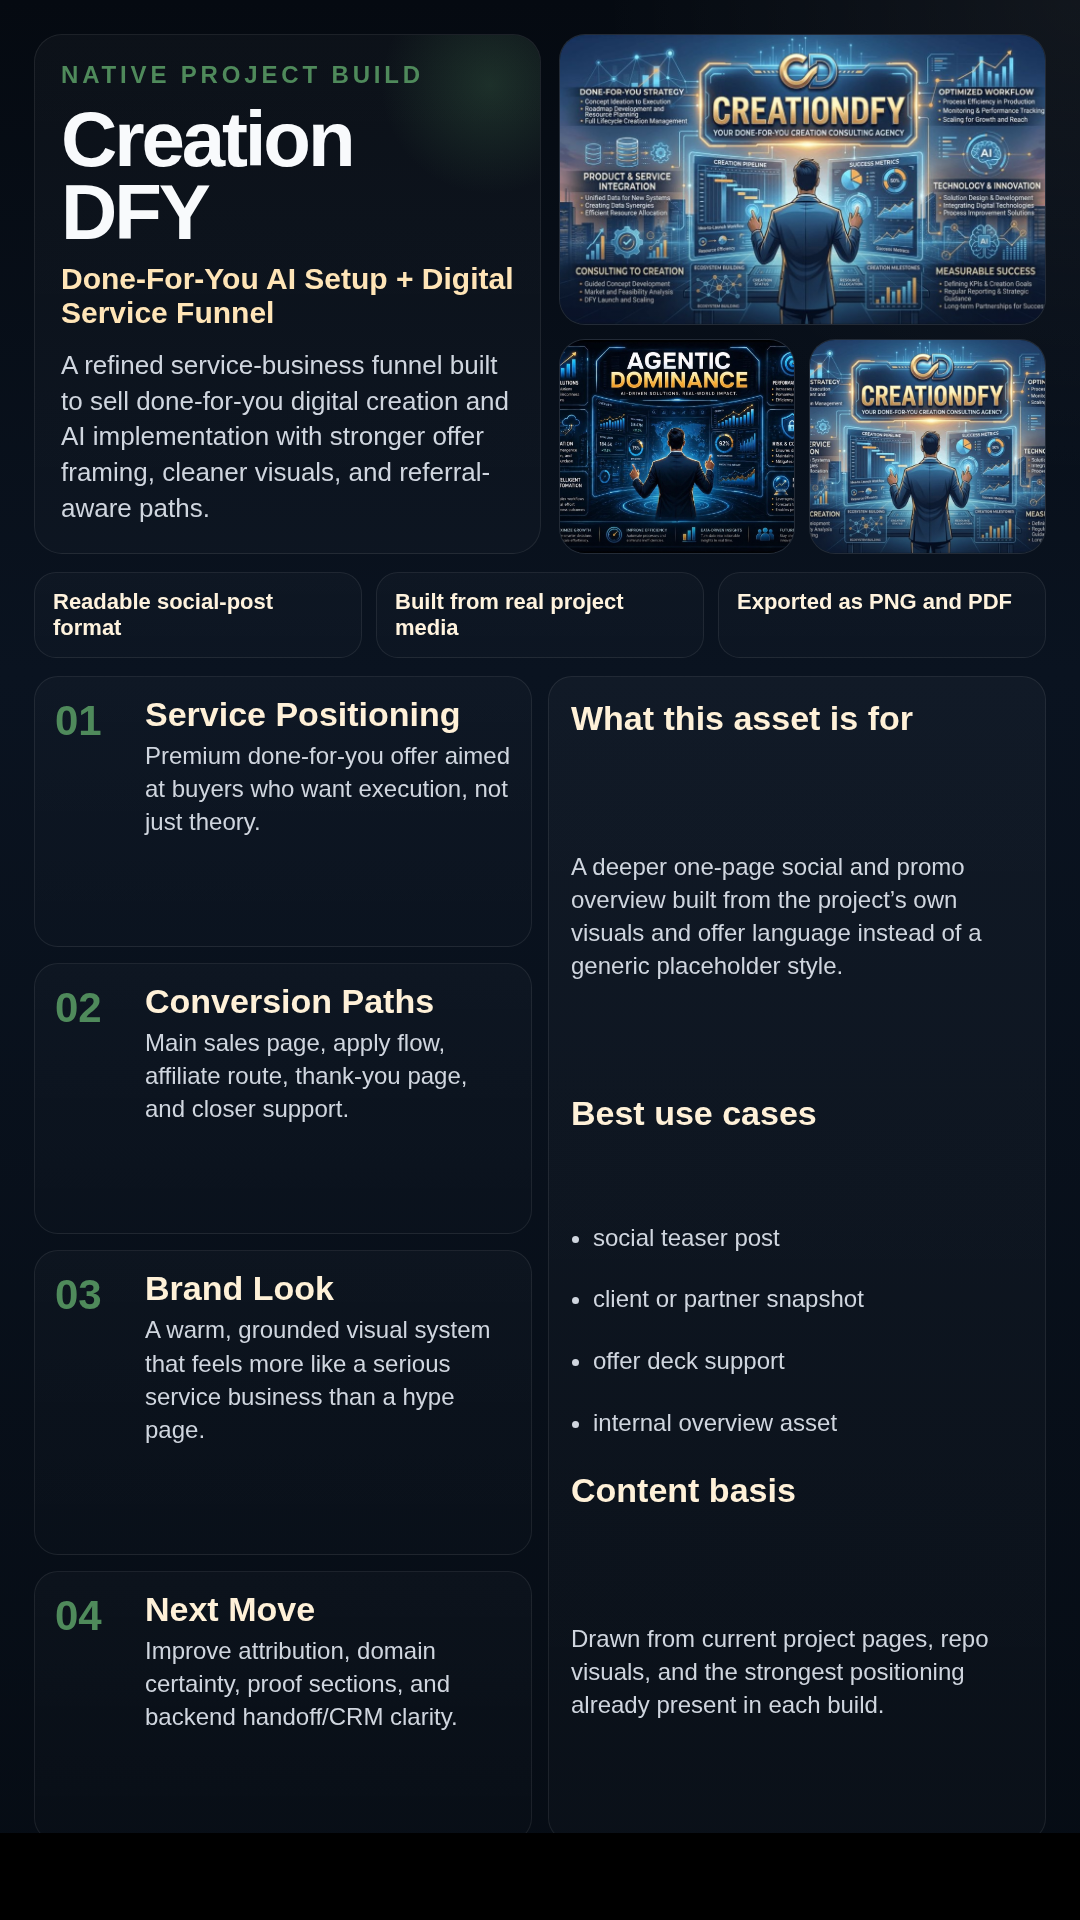
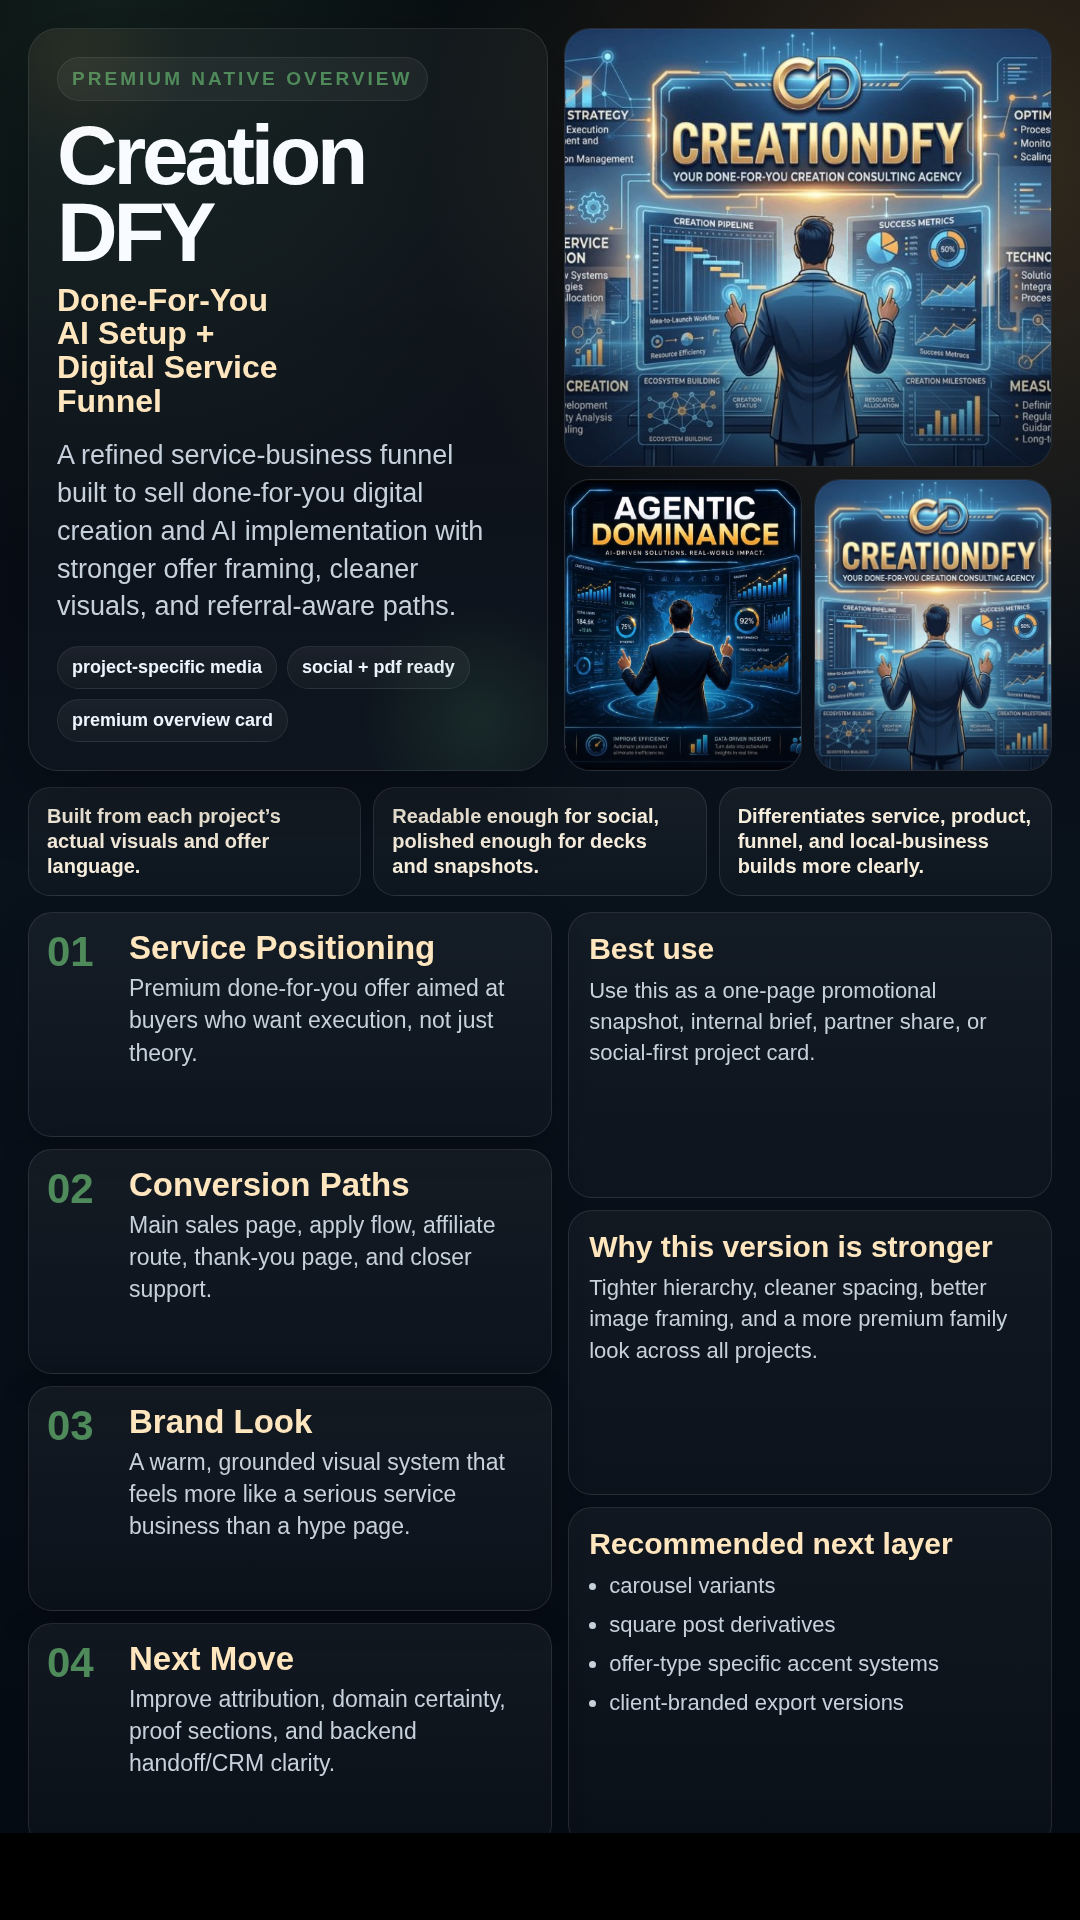
Polish native-media social asset set

diff --git a/social-assets/native-overview.html b/social-assets/native-overview.html
@@ -1,3 +1,16 @@
 <!DOCTYPE html><html><head><meta charset="utf-8"><style>
-:root{--bg:#071018;--panel:#0c1722;--line:rgba(255,255,255,.08);--text:#f8fafc;--muted:#d0d6df;--accent:#4f8a5b;--accent2:#d5a14c}*{box-sizing:border-box}html,body{margin:0;padding:0;background:#000;font-family:Inter,Arial,sans-serif}body{width:1080px;height:1920px;background:radial-gradient(circle at top right, rgba(255,255,255,.05), transparent 22%),linear-gradient(180deg,#050a11,#0a1320 35%,#060c14 100%);color:var(--text)}.page{padding:34px;display:grid;grid-template-rows:auto auto 1fr auto;gap:18px;height:100%}.hero{display:grid;grid-template-columns:1.02fr .98fr;gap:18px}.brand{background:linear-gradient(180deg,rgba(255,255,255,.03),rgba(255,255,255,.02));border:1px solid var(--line);border-radius:28px;padding:26px;position:relative;overflow:hidden;min-height:320px}.brand:before{content:'';position:absolute;right:-60px;top:-60px;width:220px;height:220px;background:radial-gradient(circle,var(--accent),transparent 70%);opacity:.25}.eyebrow{font-size:24px;letter-spacing:.16em;text-transform:uppercase;color:var(--accent);font-weight:800;margin-bottom:14px}h1{margin:0;font-size:78px;line-height:.94;letter-spacing:-.04em;max-width:8.8ch}.subtitle{margin-top:12px;font-size:30px;font-weight:800;color:#ffe5b7}.summary{margin-top:18px;font-size:26px;line-height:1.38;color:var(--muted)}.visuals{display:grid;grid-template-columns:1fr 1fr;grid-template-rows:1.15fr .85fr;gap:14px;min-height:320px}.shot{border-radius:26px;overflow:hidden;border:1px solid var(--line);background:#111a26;position:relative}.shot img{width:100%;height:100%;object-fit:cover;display:block}.shot-1{grid-column:1 / span 2}.shot:after{content:'';position:absolute;inset:auto 0 0 0;height:40%;background:linear-gradient(180deg,transparent,rgba(3,6,11,.32))}.highlight{display:grid;grid-template-columns:repeat(3,1fr);gap:14px}.chip{padding:16px 18px;border-radius:22px;border:1px solid var(--line);background:linear-gradient(180deg,rgba(255,255,255,.025),rgba(255,255,255,.015));font-size:22px;color:#fff3de;font-weight:700;min-height:86px}.body{display:grid;grid-template-columns:1fr 1fr;gap:16px}.info-card{display:grid;grid-template-columns:76px 1fr;gap:14px;align-items:start;padding:20px;border-radius:24px;border:1px solid var(--line);background:linear-gradient(180deg,rgba(255,255,255,.025),rgba(255,255,255,.012))}.count{font-size:42px;font-weight:900;color:var(--accent)}.info-card h3{margin:0 0 8px;font-size:34px;color:#fff1d8;line-height:1}.info-card p{margin:0;font-size:24px;line-height:1.38;color:var(--muted)}.aside{padding:22px;border-radius:24px;border:1px solid var(--line);background:linear-gradient(180deg,rgba(255,255,255,.03),rgba(255,255,255,.018));display:grid;gap:14px}.aside h3{margin:0;font-size:34px;color:#fff1d8}.aside p,.aside li{font-size:24px;line-height:1.38;color:var(--muted)}ul{margin:0;padding-left:22px;display:grid;gap:10px}.footer{display:flex;justify-content:space-between;align-items:center;font-size:22px;color:#c4ced6;padding:0 6px}.footer strong{color:#fff}
-</style></head><body><div class="page"><div class="hero"><div class="brand"><div class="eyebrow">Native Project Build</div><h1>Creation DFY</h1><div class="subtitle">Done-For-You AI Setup + Digital Service Funnel</div><div class="summary">A refined service-business funnel built to sell done-for-you digital creation and AI implementation with stronger offer framing, cleaner visuals, and referral-aware paths.</div></div><div class="visuals"><div class="shot shot-1"><img src="../assets/creationdfy-main-visual.jpg" alt="Creation DFY visual 1"></div><div class="shot shot-2"><img src="../assets/hero-banner.jpg" alt="Creation DFY visual 2"></div><div class="shot shot-3"><img src="../assets/mid-img1.jpg" alt="Creation DFY visual 3"></div></div></div><div class="highlight"><div class="chip">Readable social-post format</div><div class="chip">Built from real project media</div><div class="chip">Exported as PNG and PDF</div></div><div class="body"><div style="display:grid;gap:16px"><div class="info-card"><div class="count">01</div><div><h3>Service Positioning</h3><p>Premium done-for-you offer aimed at buyers who want execution, not just theory.</p></div></div><div class="info-card"><div class="count">02</div><div><h3>Conversion Paths</h3><p>Main sales page, apply flow, affiliate route, thank-you page, and closer support.</p></div></div><div class="info-card"><div class="count">03</div><div><h3>Brand Look</h3><p>A warm, grounded visual system that feels more like a serious service business than a hype page.</p></div></div><div class="info-card"><div class="count">04</div><div><h3>Next Move</h3><p>Improve attribution, domain certainty, proof sections, and backend handoff/CRM clarity.</p></div></div></div><div class="aside"><h3>What this asset is for</h3><p>A deeper one-page social and promo overview built from the project’s own visuals and offer language instead of a generic placeholder style.</p><h3>Best use cases</h3><ul><li>social teaser post</li><li>client or partner snapshot</li><li>offer deck support</li><li>internal overview asset</li></ul><h3>Content basis</h3><p>Drawn from current project pages, repo visuals, and the strongest positioning already present in each build.</p></div></div><div class="footer"><div><strong>creationdfy</strong></div><div>native overview asset</div></div></div></body></html>
+ :root{--bg:#04070d;--bg2:#09111b;--panel:rgba(10,17,27,.86);--panel2:rgba(255,255,255,.045);--line:rgba(255,255,255,.10);--text:#f8fbff;--muted:#c7d1dc;--accent:#4f8a5b;--accent2:#d5a14c;--warm:#ffe6be}
+ *{box-sizing:border-box} html,body{margin:0;padding:0;background:#000;font-family:Inter,Arial,sans-serif} body{width:1080px;height:1920px;color:var(--text);background:radial-gradient(circle at 10% 0%, color-mix(in srgb,var(--accent) 18%, transparent), transparent 26%),radial-gradient(circle at 92% 8%, color-mix(in srgb,var(--accent2) 22%, transparent), transparent 28%),linear-gradient(180deg,var(--bg) 0%,var(--bg2) 45%,#050b13 100%)}
+ .page{height:100%;padding:28px;display:grid;grid-template-rows:auto auto 1fr auto;gap:16px}
+ .hero{display:grid;grid-template-columns:1fr .94fr;gap:16px}
+ .brand{position:relative;overflow:hidden;border-radius:30px;border:1px solid var(--line);padding:28px;background:linear-gradient(180deg,rgba(255,255,255,.04),rgba(255,255,255,.025));box-shadow:0 24px 80px rgba(0,0,0,.28)}
+ .brand:before{content:'';position:absolute;inset:auto -50px -70px auto;width:240px;height:240px;border-radius:50%;background:radial-gradient(circle,color-mix(in srgb,var(--accent) 55%, transparent),transparent 68%);opacity:.32}.brand:after{content:'';position:absolute;left:-70px;top:-90px;width:230px;height:230px;border-radius:50%;background:radial-gradient(circle,color-mix(in srgb,var(--accent2) 35%, transparent),transparent 70%);opacity:.22}
+ .eyebrow{display:inline-flex;align-items:center;gap:10px;padding:10px 14px;border-radius:999px;background:rgba(255,255,255,.05);border:1px solid rgba(255,255,255,.08);font-size:19px;font-weight:800;letter-spacing:.16em;text-transform:uppercase;color:var(--accent)}
+ h1{margin:16px 0 12px;font-size:84px;line-height:.92;letter-spacing:-.05em;max-width:8ch;text-wrap:balance}.subtitle{font-size:32px;line-height:1.06;font-weight:800;color:var(--warm);max-width:14ch}.summary{margin-top:18px;font-size:27px;line-height:1.4;color:var(--muted);max-width:29ch}
+ .hero-meta{display:flex;gap:10px;flex-wrap:wrap;margin-top:20px}.meta{padding:10px 14px;border-radius:999px;background:linear-gradient(180deg,rgba(255,255,255,.06),rgba(255,255,255,.03));border:1px solid rgba(255,255,255,.08);font-size:18px;font-weight:700;color:#eef5ff}
+ .visuals{display:grid;grid-template-columns:1fr 1fr;grid-template-rows:1.2fr .8fr;gap:12px}.shot{margin:0;border-radius:26px;overflow:hidden;border:1px solid var(--line);background:#0f1722;position:relative;min-height:145px}.shot img{width:100%;height:100%;object-fit:cover;display:block}.shot-1{grid-column:1/span 2}.shot:after{content:'';position:absolute;inset:auto 0 0 0;height:44%;background:linear-gradient(180deg,transparent,rgba(4,7,13,.42))}.shot:before{content:'';position:absolute;inset:0;border-radius:inherit;box-shadow:inset 0 0 0 1px rgba(255,255,255,.03);pointer-events:none}
+ .value-row{display:grid;grid-template-columns:repeat(3,1fr);gap:12px}.pill{padding:16px 18px;border-radius:22px;border:1px solid var(--line);background:linear-gradient(180deg,rgba(255,255,255,.05),rgba(255,255,255,.025));font-size:20px;line-height:1.25;color:#f6eddc;font-weight:700;min-height:82px;display:flex;align-items:center}
+ .body{display:grid;grid-template-columns:1.04fr .96fr;gap:16px}.left{display:grid;gap:12px}.info-card{display:grid;grid-template-columns:68px 1fr;gap:14px;padding:18px;border-radius:24px;border:1px solid var(--line);background:linear-gradient(180deg,rgba(255,255,255,.05),rgba(255,255,255,.022));box-shadow:0 10px 34px rgba(0,0,0,.18)}.count{font-size:42px;line-height:1;font-weight:900;color:var(--accent)}.info-card h3{margin:0 0 8px;font-size:33px;line-height:1;color:var(--warm)}.info-card p{margin:0;font-size:23px;line-height:1.4;color:var(--muted)}
+ .aside{display:grid;gap:12px}.aside-card{padding:20px;border-radius:24px;border:1px solid var(--line);background:linear-gradient(180deg,rgba(255,255,255,.045),rgba(255,255,255,.022))}.aside-card h3{margin:0 0 10px;font-size:30px;color:var(--warm);line-height:1.05}.aside-card p,.aside-card li{margin:0;font-size:22px;line-height:1.42;color:var(--muted)} ul{margin:0;padding-left:20px;display:grid;gap:8px}
+ .footer{display:flex;justify-content:space-between;align-items:center;padding:2px 4px 0;color:#c2ceda;font-size:19px;letter-spacing:.02em}.footer strong{font-size:22px;color:#fff}.footer .right{display:flex;align-items:center;gap:10px}.dot{width:10px;height:10px;border-radius:50%;background:linear-gradient(135deg,var(--accent),var(--accent2));box-shadow:0 0 0 6px rgba(255,255,255,.03)}
+ </style></head><body><div class="page"><section class="hero"><div class="brand"><div class="eyebrow">Premium Native Overview</div><h1>Creation DFY</h1><div class="subtitle">Done-For-You AI Setup + Digital Service Funnel</div><div class="summary">A refined service-business funnel built to sell done-for-you digital creation and AI implementation with stronger offer framing, cleaner visuals, and referral-aware paths.</div><div class="hero-meta"><div class="meta">project-specific media</div><div class="meta">social + pdf ready</div><div class="meta">premium overview card</div></div></div><div class="visuals"><figure class="shot shot-1"><img src="../assets/creationdfy-main-visual.jpg" alt="Creation DFY visual 1"></figure><figure class="shot shot-2"><img src="../assets/hero-banner.jpg" alt="Creation DFY visual 2"></figure><figure class="shot shot-3"><img src="../assets/mid-img1.jpg" alt="Creation DFY visual 3"></figure></div></section><section class="value-row"><div class="pill">Built from each project’s actual visuals and offer language.</div><div class="pill">Readable enough for social, polished enough for decks and snapshots.</div><div class="pill">Differentiates service, product, funnel, and local-business builds more clearly.</div></section><section class="body"><div class="left"><article class="info-card"><div class="count">01</div><div><h3>Service Positioning</h3><p>Premium done-for-you offer aimed at buyers who want execution, not just theory.</p></div></article><article class="info-card"><div class="count">02</div><div><h3>Conversion Paths</h3><p>Main sales page, apply flow, affiliate route, thank-you page, and closer support.</p></div></article><article class="info-card"><div class="count">03</div><div><h3>Brand Look</h3><p>A warm, grounded visual system that feels more like a serious service business than a hype page.</p></div></article><article class="info-card"><div class="count">04</div><div><h3>Next Move</h3><p>Improve attribution, domain certainty, proof sections, and backend handoff/CRM clarity.</p></div></article></div><div class="aside"><div class="aside-card"><h3>Best use</h3><p>Use this as a one-page promotional snapshot, internal brief, partner share, or social-first project card.</p></div><div class="aside-card"><h3>Why this version is stronger</h3><p>Tighter hierarchy, cleaner spacing, better image framing, and a more premium family look across all projects.</p></div><div class="aside-card"><h3>Recommended next layer</h3><ul><li>carousel variants</li><li>square post derivatives</li><li>offer-type specific accent systems</li><li>client-branded export versions</li></ul></div></div></section><footer class="footer"><div><strong>creationdfy</strong></div><div class="right"><span class="dot"></span><span>polished native asset</span></div></footer></div></body></html>